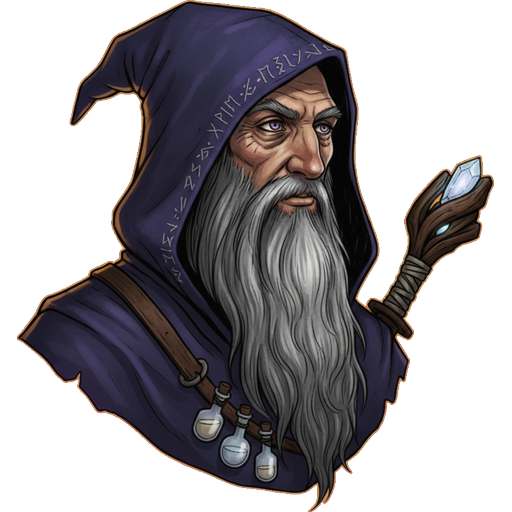
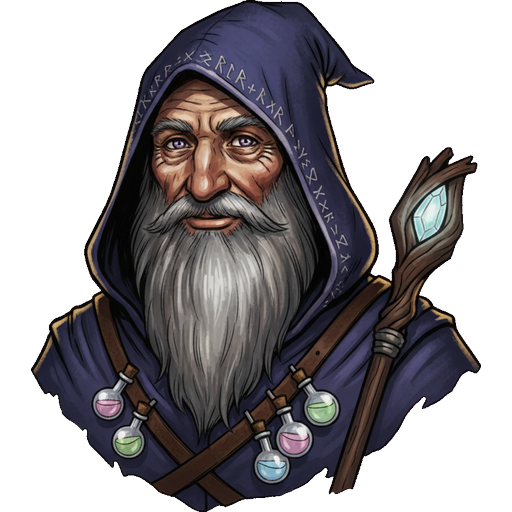
style(art): make all 4 NPC merchant busts friendly and looking into camera

diff --git a/pipeline/scripts/generate_art_batch.py b/pipeline/scripts/generate_art_batch.py
@@ -87,24 +87,24 @@ GLOBAL_STYLE_INSTRUCTION = (
 
 # 4. Item Definitions
 ITEMS = {
-    # Part 1: Merchants (4 busts)
+    # Part 1: Merchants (4 busts) - Friendly, looking into camera / viewer
     "general_store": {
         "type": "npc",
         "file": "assets/art/npc/general_store.png",
         "name": "Berta of the General Store",
         "framing": (
             "Framing: head and upper chest bust only (cut cleanly at mid-chest, just under the shoulders). "
-            "Three-quarter view turned to the RIGHT of the image, eyes looking right. "
+            "Front-facing towards the camera/viewer (or very slight three-quarter angle), eyes looking straight into the camera / at the player with a warm, friendly and welcoming smile. "
             "Head positioned in the upper half of the canvas with a little space above the head, shoulders broad and filling the canvas width. "
-            "Light source from the upper left. Weathered, believable person of a grim medieval world, not a hero, not a monster. "
+            "Light source from the upper left. Weathered, believable person of a grim medieval world, warm and inviting shopkeeper, not a hero, not a monster. "
             "Clothes are worn and practical: no shiny armour, no rust, nothing dark or corrupted."
         ),
         "desc": (
-            "Berta of the General Store. Woman in her fifties, round friendly but shrewd weathered face, rosy cheeks, "
+            "Berta of the General Store. Woman in her fifties, very warm and friendly welcoming smile, kind sparkling eyes looking directly at the viewer/screen, rosy cheeks, "
             "grey-streaked chestnut hair tied in a loose bun under a faded red headscarf. Small brass spectacles perched on her nose. "
             "Wearing a practical cream linen blouse, a coarse brown wool shawl draped around her, a leather apron strap over one shoulder, "
             "a pencil tucked behind her ear, and a small ring of brass keys hanging at the collar. "
-            "Warm weathered colours strictly: faded red, cream linen, brown wool, brass, natural skin tones. Bold inked outlines."
+            "Warm, friendly shopkeeper greeting the player. Warm weathered colours strictly: faded red, cream linen, brown wool, brass, natural skin tones. Bold inked outlines."
         )
     },
     "smith": {
@@ -113,17 +113,18 @@ ITEMS = {
         "name": "Master Gorran the Blacksmith",
         "framing": (
             "Framing: head and upper chest bust only (cut cleanly at mid-chest, just under the shoulders). "
-            "Three-quarter view turned to the RIGHT of the image, eyes looking right. "
+            "Front-facing towards the camera/viewer (or very slight three-quarter angle), eyes looking straight into the camera / at the player with a hearty, friendly, warm and jovial warrior smile. "
             "Head positioned in the upper half of the canvas with a little space above the head, broad powerful shoulders filling the canvas width. "
-            "Light source from the upper left, plus warm forge glow from below on one side. Weathered, believable person of a grim medieval world, not a hero, not a monster. "
+            "Light source from the upper left, plus warm forge glow from below on one side. Weathered, believable craftsman, hearty and friendly. "
             "Clothes are worn and practical: no shiny armour, no rust, nothing dark or corrupted."
         ),
         "desc": (
-            "Master Gorran the Blacksmith. Big bald man in his forties, thick braided red-brown beard with a few singed hairs. "
+            "Master Gorran the Blacksmith. Big bald man in his forties, hearty friendly smile, warm kind eyes looking directly into the camera / at the viewer, "
+            "thick braided red-brown beard with a few singed hairs. "
             "Black soot smudges on his forehead and rugged cheeks, thick powerful neck. "
             "Heavy leather apron over a sleeveless sweat-darkened coarse grey shirt, thick hairy muscular forearm visible at the bottom edge, "
             "a pair of heavy iron blacksmith tongs resting casually over his shoulder. "
-            "Glow of the forge lighting him warm orange from below on one side. "
+            "Glow of the forge lighting him warm orange from below on one side. Welcoming master craftsman greeting the player warmly. "
             "Colours strictly: steel grey, leather brown, forge orange, natural ruddy skin tones. Bold inked outlines."
         )
     },
@@ -133,17 +134,18 @@ ITEMS = {
         "name": "Edda the Huntress",
         "framing": (
             "Framing: head and upper chest bust only (cut cleanly at mid-chest, just under the shoulders). "
-            "Three-quarter view turned to the RIGHT of the image, eyes looking right. "
+            "Front-facing towards the camera/viewer (or very slight three-quarter angle), eyes looking straight into the camera / at the player with a friendly, welcoming, gentle smile and kind eyes. "
             "Head positioned in the upper half of the canvas with a little space above the head, shoulders filling the canvas width. "
-            "Light source from the upper left. Weathered, believable person of a grim medieval world, not a hero, not a monster. "
+            "Light source from the upper left. Weathered, believable person of a grim medieval world, friendly and trustworthy ally. "
             "Clothes are worn and practical: no shiny armour, no rust, nothing dark or corrupted."
         ),
         "desc": (
-            "Edda the Huntress. Lean woman in her thirties, sharp weathered hawk-like face, a thin pale scar across one cheek. "
+            "Edda the Huntress. Lean woman in her thirties, sharp weathered hawk-like face softened by a warm, friendly smile and kind welcoming eyes looking straight at the viewer, "
+            "a thin pale scar across one cheek. "
             "Dark blonde hair braided in a practical side braid over one shoulder. "
             "Wearing a forest green-brown hooded cloak with the hood down around her neck, a rough grey wolf fur collar, "
             "a sturdy oiled leather jerkin, a thick leather quiver strap across the chest with fletched feathered arrows visible behind her shoulder, "
-            "and a carved bone talisman hanging from a leather cord. "
+            "and a carved bone talisman hanging from a leather cord. Friendly, welcoming demeanor. "
             "Colours strictly: forest green, wolf fur grey, weathered leather brown, bone white. Bold inked outlines."
         )
     },
@@ -153,16 +155,17 @@ ITEMS = {
         "name": "Velthar the Mage",
         "framing": (
             "Framing: head and upper chest bust only (cut cleanly at mid-chest, just under the shoulders). "
-            "Three-quarter view turned to the RIGHT of the image, eyes looking right. "
+            "Front-facing towards the camera/viewer (or very slight three-quarter angle), eyes looking straight into the camera / at the player with a warm, friendly, benevolent smile and kind wise eyes. "
             "Head positioned in the upper half of the canvas with a little space above the head, shoulders filling the canvas width. "
-            "Light source from the upper left. Weathered, believable person of a grim medieval world, mysterious but kind, NOT evil, NOT corrupted. "
+            "Light source from the upper left. Weathered, believable person of a grim medieval world, mysterious but kind, gentle and welcoming, NOT evil, NOT corrupted. "
             "Clothes are worn and practical: no shiny armour, no rust, nothing dark or corrupted."
         ),
         "desc": (
-            "Velthar the Mage. Old thin weathered scholar man, long flowing silver beard and mustache, deep-set clever wise eyes with a faint subtle violet glint. "
+            "Velthar the Mage. Old thin weathered scholar man, warm gentle benevolent smile, wise kind eyes with a faint subtle violet sparkle looking straight into the camera / at the viewer, "
+            "long flowing silver beard and mustache. "
             "Wearing a tall soft pointed scholar hood of deep indigo cloth embroidered with small faded antique silver runes, high collar robes. "
             "The carved top of an ancient wooden staff with an embedded pale crystal visible beside his shoulder, and a few small glass potion vials with pale liquids hanging from a shoulder strap. "
-            "Colours strictly: deep indigo cloth, subtle violet glow, antique silver, weathered aged parchment skin tones. Mysterious and wise, kind demeanor. Bold inked outlines."
+            "Colours strictly: deep indigo cloth, subtle violet glow, antique silver, weathered aged parchment skin tones. Gentle, warm, kind mentor demeanor. Bold inked outlines."
         )
     },
 
